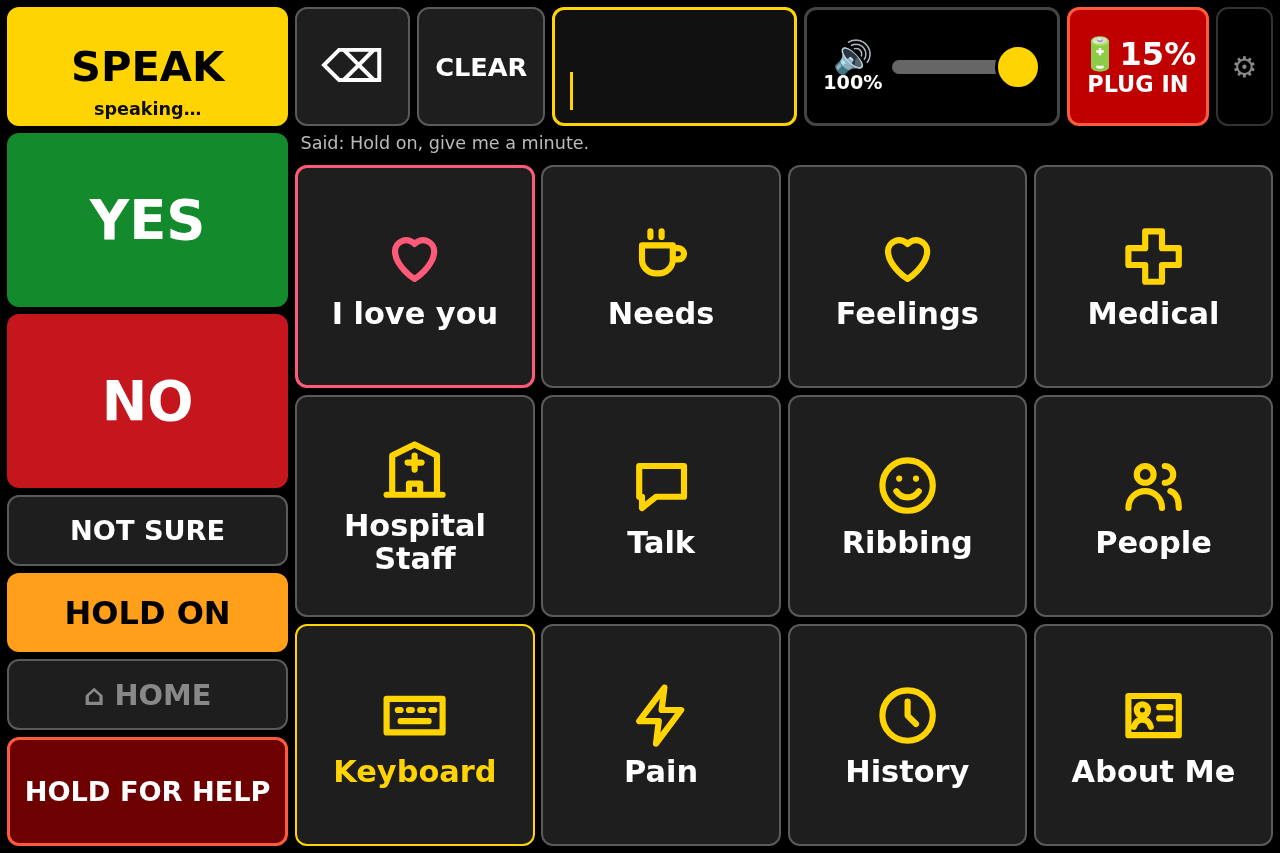
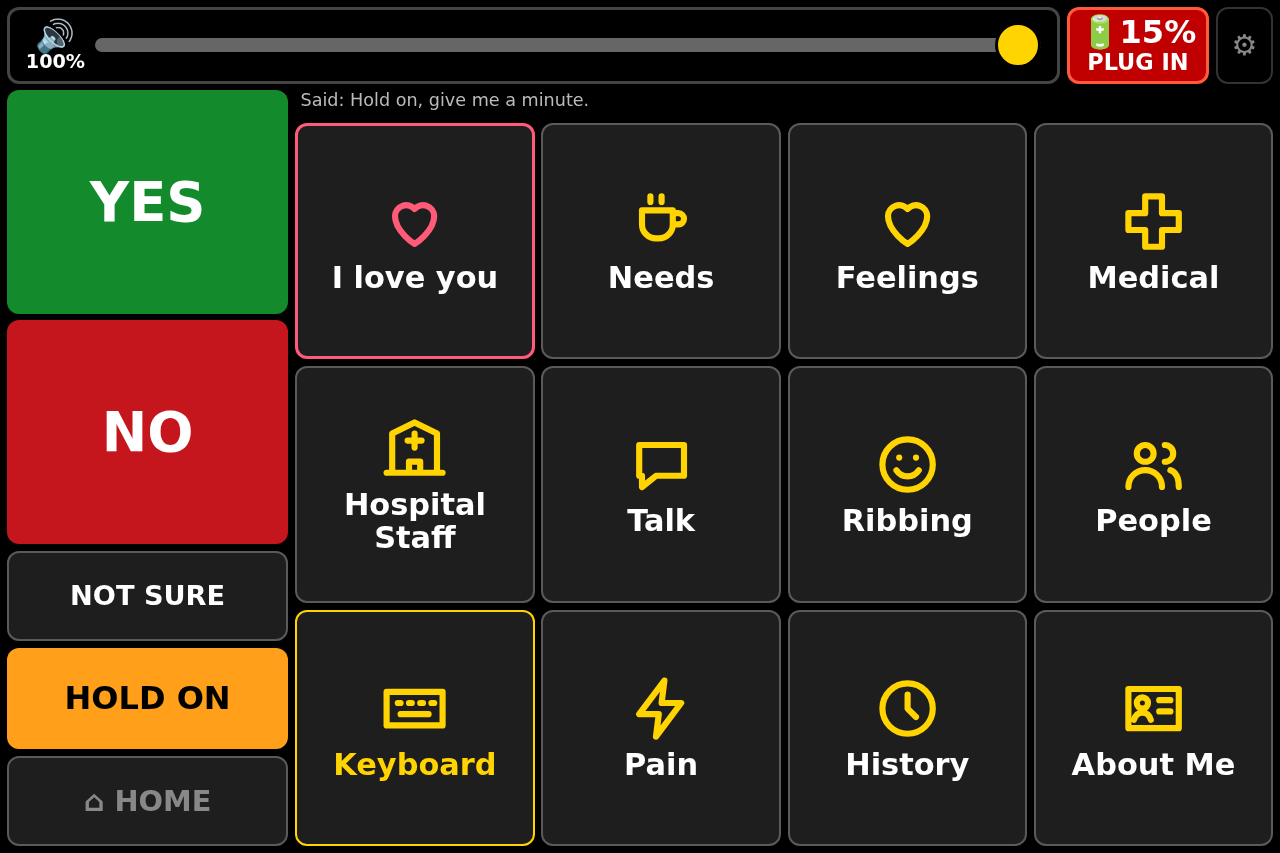
Layout (2026-10-22): typing box, SPEAK, backspace and CLEAR only on the keyboard screen, where the box also takes the room of volume and battery; off the keyboard the top row is volume (wider slider), battery and gear, thinner; HOLD FOR HELP removed (only as loud as the speaker), YES/NO and tiles ta

diff --git a/tests/ui_test.js b/tests/ui_test.js
@@ -57,6 +57,9 @@ const SHOTS = path.join(__dirname, "..", "screenshots");
     const col = await page.$$eval("#controls button", (b) => b.map((x) => [x.id, x.getBoundingClientRect().height]));
     const hgt = Object.fromEntries(col);
     assert(hgt.yes >= Math.max(hgt.notsure, hgt.holdon, hgt.home) && hgt.no >= hgt.holdon, "YES/NO must stay biggest: " + JSON.stringify(hgt));
+    // off the keyboard: no typing box, SPEAK, backspace or CLEAR; volume and battery shown
+    for (const id of ["#msg", "#speak", "#back", "#clear"]) assert(await page.isHidden(id), id + " shown off the keyboard");
+    assert(await page.isVisible("#volbox") && await page.isVisible("#battery"), "volume/battery missing on home");
     await shot("1-home");
 
     // keyboard tile: type, prediction, physical keys, Enter = SPEAK
@@ -69,6 +72,10 @@ const SHOTS = path.join(__dirname, "..", "screenshots");
     assert(sugg.length >= 4 && sugg.every((s) => s.toLowerCase().startsWith("ne")), "prediction: " + sugg);
     await fits("keyboard");
     await shot("2-keyboard");
+    // typing: the box gets the room of volume and battery
+    assert(await page.isHidden("#volbox") && await page.isHidden("#battery"), "volume/battery shown while typing");
+    const mb = await page.locator("#msg").boundingBox();
+    assert(mb.width > w * 0.45, "typing box too narrow: " + mb.width);
     await pc('#suggest button:text-is("need")');
     await page.keyboard.type("water");
     assert.match(await page.textContent("#msg"), /^i need water$/);
@@ -168,11 +175,11 @@ const SHOTS = path.join(__dirname, "..", "screenshots");
     await shot("8-star");
     await page.click('#modal button:text-is("Feelings")');
 
-    // star picker must leave YES/NO/HELP reachable
+    // star picker must leave the side buttons reachable
     await pc('.hrow .star');
     const modalBox = await page.locator("#modal").boundingBox();
-    const helpBox = await page.locator("#help").boundingBox();
-    assert(modalBox.x >= helpBox.x + helpBox.width, "star picker covers HELP");
+    const sideBox = await page.locator("#controls").boundingBox();
+    assert(modalBox.x >= sideBox.x + sideBox.width, "star picker covers the side buttons");
     await page.click("#yes"); // still works with the picker open
     await page.click('#modal button:text-is("Cancel")');
 
@@ -189,15 +196,6 @@ const SHOTS = path.join(__dirname, "..", "screenshots");
     assert.strictEqual(await page.textContent("#lastsaid"), saidBefore, "double tap picked a body part");
     await page.click("#home");
 
-    // HELP: short tap does nothing, 1 s hold fires
-    const before = await page.textContent("#lastsaid");
-    const hb = await page.locator("#help").boundingBox();
-    await page.mouse.move(hb.x + 20, hb.y + 20);
-    await page.mouse.down(); await page.waitForTimeout(300); await page.mouse.up();
-    await page.waitForTimeout(500);
-    assert.strictEqual(await page.textContent("#lastsaid"), before, "short tap fired HELP");
-    await page.mouse.down(); await page.waitForTimeout(1200); await page.mouse.up();
-    await said("I need help");
 
     // settings: 1 s does nothing, 3 s hold opens
     const gb = await page.locator("#gear").boundingBox();
@@ -345,6 +343,8 @@ const SHOTS = path.join(__dirname, "..", "screenshots");
     await page.reload();
     await page.waitForSelector(".tiles button");
     assert.match(await page.textContent("#msg"), /half typ/);
+    await tile("Keyboard"); // the box only shows on the keyboard screen
+    assert(await page.isVisible("#msg"), "half-typed text not shown on the keyboard");
     await page.click("#clear");
     await page.evaluate(async () => { D.settings.side = "left"; applySettings(); await saveNow(); });
 
@@ -418,20 +418,18 @@ const SHOTS = path.join(__dirname, "..", "screenshots");
     assert.strictEqual(cleared, 1, "the page did not clear the dark flag");
     await page.click("#yes");
     await page.waitForFunction(() => document.querySelector("#lastsaid").textContent.includes("Yes"), null, { timeout: 8000 });
-    // darkened again: the waking touch on HELP is swallowed, holding HELP again still works
+    // darkened again: the waking touch on NOT SURE is swallowed, the next tap speaks
     dark = true;
     await page.waitForTimeout(1300);
-    const hb = await page.locator("#help").boundingBox();
-    await page.mouse.move(hb.x + 20, hb.y + 20);
-    await page.mouse.down(); await page.waitForTimeout(1200); await page.mouse.up();
-    await page.waitForTimeout(300);
-    assert(!(await page.textContent("#lastsaid")).includes("I need help"), "the waking touch started HELP");
-    await page.mouse.down(); await page.waitForTimeout(1200); await page.mouse.up();
-    await page.waitForFunction(() => document.querySelector("#lastsaid").textContent.includes("I need help"), null, { timeout: 8000 });
+    await page.click("#notsure");
+    await page.waitForTimeout(500);
+    assert(!(await page.textContent("#lastsaid")).includes("not sure"), "the waking touch pressed NOT SURE");
+    await page.click("#notsure");
+    await page.waitForFunction(() => document.querySelector("#lastsaid").textContent.includes("not sure"), null, { timeout: 8000 });
     console.log("dark screen wake: OK");
     await page.close();
   }
-  // server down: YES and HELP still speak (browser voice); no voice at all: text shown huge
+  // server down: YES and NOT SURE still speak (browser voice); no voice at all: text shown huge
   {
     const page = await browser.newPage({ viewport: { width: 1280, height: 853 }, hasTouch: true });
     page.on("pageerror", (e) => errors.push(String(e)));
@@ -446,11 +444,10 @@ const SHOTS = path.join(__dirname, "..", "screenshots");
     await page.click("#holdon"); // wired before the data loads, like YES/NO
     await page.waitForTimeout(750);
     await page.click("#yes");
-    const hb = await page.locator("#help").boundingBox();
-    await page.mouse.move(hb.x + 20, hb.y + 20);
-    await page.mouse.down(); await page.waitForTimeout(1200); await page.mouse.up();
-    await page.waitForFunction(() => window.__spoken.includes("I need help"), null, { timeout: 8000 });
-    assert.deepStrictEqual(await page.evaluate(() => window.__spoken), ["Hold on, give me a minute.", "Yes", "I need help"]);
+    await page.waitForTimeout(750);
+    await page.click("#notsure");
+    await page.waitForFunction(() => window.__spoken.includes("I'm not sure, ask me another way."), null, { timeout: 8000 });
+    assert.deepStrictEqual(await page.evaluate(() => window.__spoken), ["Hold on, give me a minute.", "Yes", "I'm not sure, ask me another way."]);
     await page.evaluate(() => { speechSynthesis.getVoices = () => []; });
     await page.waitForTimeout(750);
     await page.click("#no");
@@ -465,4 +462,4 @@ const SHOTS = path.join(__dirname, "..", "screenshots");
   assert.deepStrictEqual(errors, [], "page errors");
   await browser.close();
   console.log("UI test passed");
-})().catch((e) => { console.error("UI test FAILED:", e.message); process.exit(1); });
+})().catch((e) => { console.error("UI test FAILED:", e.message, e.stack.split("\n").find((l) => l.includes("ui_test.js")) || ""); process.exit(1); });

diff --git a/static/app.js b/static/app.js
@@ -338,6 +338,8 @@ function renderPanel() {
 function renderScreen(p) {
   ignoreUntil = performance.now() + 400;
   $("#home").classList.toggle("here", screen === "home");
+  // the typing box, SPEAK, backspace and CLEAR only while typing; volume and battery give it their room
+  document.body.classList.toggle("typing", screen === "keyboard");
   if (screen === "home") return renderHome(p);
   if (screen === "keyboard") return renderKeys(p);
   if (screen === "pain") return renderPain(p);
@@ -477,33 +479,6 @@ function holdButton(el, ms, fn) {
 let actx = null;
 function unlockAudio() {
   try { if (!actx) actx = new (window.AudioContext || window.webkitAudioContext)(); if (actx.state === "suspended") actx.resume(); } catch (e) { /* none */ }
-}
-function chime() {
-  unlockAudio();
-  if (!actx) return 0;
-  const t0 = actx.currentTime + 0.05;
-  for (let rep = 0; rep < 3; rep++) {
-    [880, 1320, 880, 1320].forEach((f, i) => {
-      const o = actx.createOscillator(), g = actx.createGain();
-      o.type = "square";
-      o.frequency.value = f;
-      const s = t0 + rep * 1.0 + i * 0.2;
-      g.gain.setValueAtTime(0.0001, s);
-      g.gain.exponentialRampToValueAtTime(0.6 * Math.max(0.8, vol()), s + 0.02); // HELP: never under 80%
-      g.gain.exponentialRampToValueAtTime(0.0001, s + 0.19);
-      o.connect(g).connect(actx.destination);
-      o.start(s);
-      o.stop(s + 0.2);
-    });
-  }
-  return 3000;
-}
-function helpAlarm() {
-  document.body.classList.remove("alarm");
-  void document.body.offsetWidth;
-  document.body.classList.add("alarm");
-  const wait = chime();
-  setTimeout(() => say("I need help"), wait);
 }
 
 // ---------- settings ----------
@@ -870,7 +845,6 @@ async function start() {
   $("#no").onclick = () => say("No");
   $("#notsure").onclick = () => say("I'm not sure, ask me another way.");
   $("#holdon").onclick = () => say("Hold on, give me a minute.");
-  holdButton($("#help"), 1000, helpAlarm);
   // the touch that wakes a screen darkened with the power button must not press anything
   // (X wakes the screen and still delivers the touch): swallow that first press and its click
   let dark = false, darkEnd = -1e9, eatClick = 0;

diff --git a/static/style.css b/static/style.css
@@ -8,7 +8,6 @@
   --accent: #ffd400;
   --yes: #138a2c;
   --no: #c4161c;
-  --help: #6d0000;
   --gap: 0.8vh;
 }
 * { box-sizing: border-box; -webkit-user-select: none; user-select: none; -webkit-tap-highlight-color: transparent; }
@@ -49,6 +48,12 @@ input, textarea { -webkit-user-select: text; user-select: text; }
 #gear.warn { border-color: #ff5a3c; color: #ff5a3c; }
 #gear { width: 4.5vw; min-width: 48px; font-size: 1.8rem; background: transparent; border-color: #333; color: #888; }
 
+/* off the keyboard the top row is only volume, battery and gear, thinner, the slider using the free width */
+body:not(.typing) :is(#speak, #back, #clear, #msg) { display: none; }
+body:not(.typing) #msgrow { height: 9vh; }
+body:not(.typing) #volbox { flex: 1; }
+body.typing :is(#volbox, #battery) { display: none; }
+
 #controls { width: 22vw; min-width: 230px; display: flex; flex-direction: column; gap: var(--gap); }
 #controls > * { min-height: 0; }
 #yes, #no { flex: 2.2; font-size: 3.4rem; border: none; }
@@ -65,9 +70,6 @@ input, textarea { -webkit-user-select: text; user-select: text; }
 .hold .fill { position: absolute; left: 0; top: 0; bottom: 0; width: 0; background: rgba(255, 255, 255, 0.35); pointer-events: none; }
 .hold.holding .fill { width: 100%; transition: width var(--hold-ms, 1000ms) linear; }
 .hold .label { position: relative; pointer-events: none; }
-#help { flex: 1.3; font-size: 1.7rem; background: var(--help); border: 3px solid #ff5a3c; }
-body.alarm { animation: alarm 0.5s steps(2) 8; }
-@keyframes alarm { 50% { background: #b00000; } }
 
 main { flex: 1; min-width: 0; display: flex; flex-direction: column; gap: 0.4vh; }
 #lastsaid { height: 3.4vh; font-size: 1.1rem; color: #bbb; white-space: nowrap; overflow: hidden; text-overflow: ellipsis; padding: 0 0.3em; }

diff --git a/static/index.html b/static/index.html
@@ -24,7 +24,6 @@
       <button id="notsure" class="notsure">NOT SURE</button>
       <button id="holdon" class="holdon">HOLD ON</button>
       <button id="home" class="home">&#8962; HOME</button>
-      <button id="help" class="hold help"><span class="fill"></span><span class="label">HOLD FOR HELP</span></button>
     </aside>
     <main>
       <div id="lastsaid"></div>
